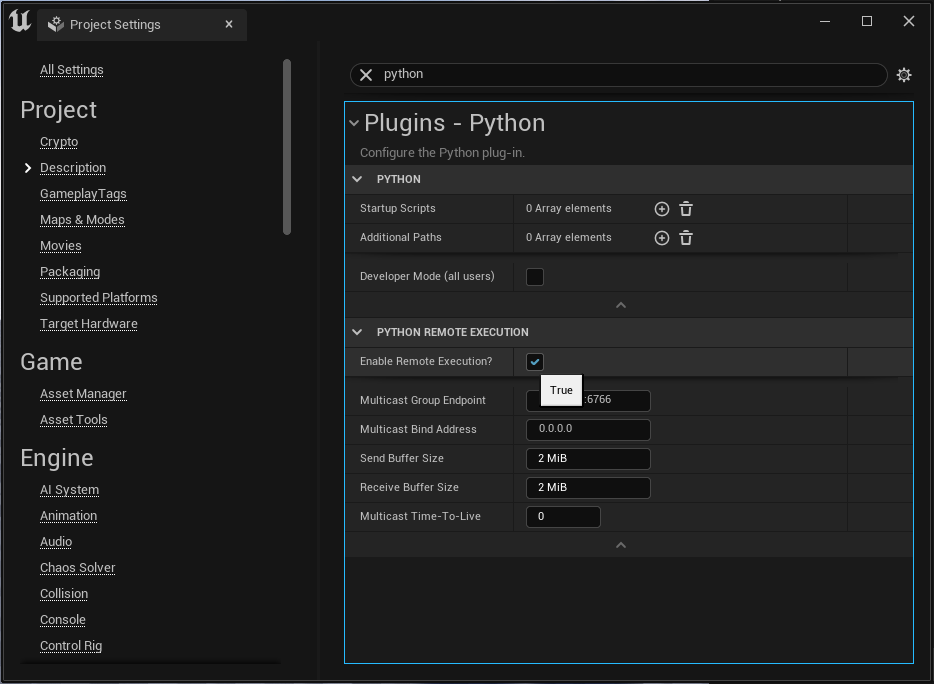
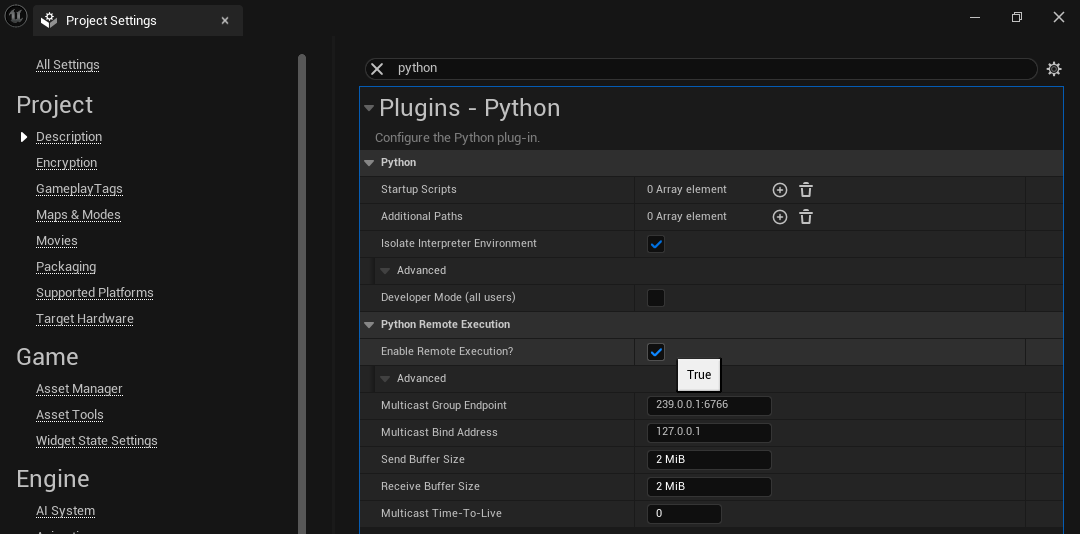
- fixed #669, #638, #637, #631

diff --git a/send2ue/dependencies/unreal.py b/send2ue/dependencies/unreal.py
@@ -333,6 +333,24 @@ class Unreal:
         return None
 
     @staticmethod
+    def get_bone_pose_for_frame(anim_sequence, bone_name, frame, extract_root_motion):
+        """
+        Gets the local transform of the bone at the specified frame in the anim sequence.
+
+
+        :param object anim_sequence: An unreal anim sequence object.
+        :param str bone_name: A bone name.
+        :param float frame: The frame to get the transform at.
+        :param bool extract_root_motion: Whether to include root motion in the returned transform.
+        :returns: A transform.
+        :rtype: unreal.Transform
+        """
+        pose_options = unreal.AnimPoseEvaluationOptions()
+        pose_options.set_editor_property('extract_root_motion', extract_root_motion)
+        pose = unreal.AnimPoseExtensions.get_anim_pose_at_frame(anim_sequence, frame, pose_options)
+        return unreal.AnimPoseExtensions.get_bone_pose(pose, bone_name)
+
+    @staticmethod
     def set_settings(property_group, data_object):
         """
         Sets a group of properties onto an unreal object.
@@ -985,6 +1003,17 @@ class UnrealRemoteCalls:
             lod_count = unreal.get_editor_subsystem(unreal.StaticMeshEditorSubsystem).get_lod_count(asset)
 
         return lod_count
+    @staticmethod
+    def get_asset_type(asset_path):
+        """
+        Gets the asset type of the given asset.
+
+        :param str asset_path: The path to the unreal asset.
+        :return str: The number of lods on the asset.
+        """
+        asset = Unreal.get_asset(asset_path)
+        if asset:
+            return asset.__class__.__name__
 
     @staticmethod
     def asset_exists(asset_path):
@@ -992,7 +1021,7 @@ class UnrealRemoteCalls:
         Checks to see if an asset exist in unreal.
 
         :param str asset_path: The path to the unreal asset.
-        :return bool: Whether or not the asset exists.
+        :return bool: Whether the asset exists.
         """
         return bool(unreal.load_asset(asset_path))
 
@@ -1085,7 +1114,7 @@ class UnrealRemoteCalls:
 
         :param str asset_path: The path to the unreal asset.
         :param str socket_name: The name of the socket to look for.
-        :return bool: Whether or not the asset has the given socket or not.
+        :return bool: Whether the asset has the given socket or not.
         """
         mesh = Unreal.get_asset(asset_path)
         return bool(mesh.find_socket(socket_name))
@@ -1097,7 +1126,7 @@ class UnrealRemoteCalls:
 
         :param str binding_asset_path: The path to the unreal binding asset.
         :param str groom_asset_path: The path to the unreal groom asset.
-        :return bool: Whether or not the binding asset has the given groom.
+        :return bool: Whether the binding asset has the given groom.
         """
         binding_asset = unreal.load_asset(binding_asset_path)
         groom_asset = unreal.load_asset(groom_asset_path)
@@ -1114,7 +1143,7 @@ class UnrealRemoteCalls:
 
         :param str binding_asset_path: The path to the unreal binding asset.
         :param str target_mesh_path: The path to the unreal skeletal mesh asset.
-        :return bool: Whether or not the binding asset has the given skeletal mesh target.
+        :return bool: Whether the binding asset has the given skeletal mesh target.
         """
         binding_asset = unreal.load_asset(binding_asset_path)
         mesh_asset = unreal.load_asset(target_mesh_path)
@@ -1181,7 +1210,7 @@ class UnrealRemoteCalls:
 
         :param str asset_path: The path to the unreal asset.
         :param str socket_name: The name of the socket to look for.
-        :return bool: Whether or not the asset has the given socket and the owner (outer) is properly assigned or not.
+        :return bool: Whether the asset has the given socket and the owner (outer) is properly assigned or not.
         """
         mesh = Unreal.get_asset(asset_path)
         socket = mesh.find_socket(socket_name)
@@ -1196,7 +1225,7 @@ class UnrealRemoteCalls:
         Deletes an asset in unreal.
 
         :param str asset_path: The path to the unreal asset.
-        :return bool: Whether or not the asset was deleted.
+        :return bool: Whether the asset was deleted.
         """
         if unreal.EditorAssetLibrary.does_asset_exist(asset_path):
             unreal.EditorAssetLibrary.delete_asset(asset_path)
@@ -1204,14 +1233,13 @@ class UnrealRemoteCalls:
     @staticmethod
     def delete_directory(directory_path):
         """
-        Deletes an folder and its contents in unreal.
+        Deletes a folder and its contents in unreal.
 
         :param str directory_path: The game path to the unreal project folder.
-        :return bool: Whether or not the directory was deleted.
+        :return bool: Whether the directory was deleted.
         """
-        # API BUG:cant check if exists https://jira.it.epicgames.com/browse/UE-142234
-        # if unreal.EditorAssetLibrary.does_directory_exist(directory_path):
-        unreal.EditorAssetLibrary.delete_directory(directory_path)
+        if unreal.EditorAssetLibrary.does_directory_exist(directory_path):
+            unreal.EditorAssetLibrary.delete_directory(directory_path)
 
     @staticmethod
     def import_asset(file_path, asset_data, property_data):
@@ -1246,7 +1274,7 @@ class UnrealRemoteCalls:
         :param str asset_path: The project path to the asset.
         :param str asset_class: The name of the unreal asset class.
         :param str asset_factory: The name of the unreal factory.
-        :param bool unique_name: Whether or not the check if the name is unique before creating the asset.
+        :param bool unique_name: Whether the check if the name is unique before creating the asset.
         """
         asset_class = getattr(unreal, asset_class)
         factory = getattr(unreal, asset_factory)()
@@ -1472,11 +1500,13 @@ class UnrealRemoteCalls:
         """
         animation = Unreal.get_asset(asset_path)
         path = unreal.AnimationLibrary.find_bone_path_to_root(animation, bone_name)
-        transform = unreal.AnimationLibrary.get_bone_pose_for_frame(animation, bone_name, frame, True)
+        transform = Unreal.get_bone_pose_for_frame(animation, bone_name, frame, True)
         world_rotation = unreal.Rotator()
         world_location = unreal.Transform()
+
+        # this walks the bone hierarchy to get the world transforms
         for bone in path:
-            bone_transform = unreal.AnimationLibrary.get_bone_pose_for_frame(animation, str(bone), frame, True)
+            bone_transform = Unreal.get_bone_pose_for_frame(animation, str(bone), frame, True)
             world_rotation = world_rotation.combine(bone_transform.rotation.rotator())
             world_location = world_location.multiply(bone_transform)
 
@@ -1502,7 +1532,7 @@ class UnrealRemoteCalls:
     @staticmethod
     def get_origin(asset_path):
         """
-        Gets the location of the assets origin.
+        Gets the location of the asset origin.
 
         :param str asset_path: The project path to the asset.
         :return list: A list of bone name all the way to the root bone.

diff --git a/send2ue/dependencies/remote_execution.py b/send2ue/dependencies/remote_execution.py
@@ -1,5 +1,6 @@
 # Copyright Epic Games, Inc. All Rights Reserved.
 
+import os
 import sys as _sys
 import json as _json
 import uuid as _uuid
@@ -23,7 +24,7 @@ _NODE_TIMEOUT_SECONDS = 5                               # Number of seconds to w
 
 DEFAULT_MULTICAST_TTL = 0                               # Multicast TTL (0 is limited to the local host, 1 is limited to the local subnet)
 DEFAULT_MULTICAST_GROUP_ENDPOINT = ('239.0.0.1', 6766)  # The multicast group endpoint tuple that the UDP multicast socket should join (must match the "Multicast Group Endpoint" setting in the Python plugin)
-DEFAULT_MULTICAST_BIND_ADDRESS = '0.0.0.0'              # The adapter address that the UDP multicast socket should bind to, or 0.0.0.0 to bind to all adapters (must match the "Multicast Bind Address" setting in the Python plugin)
+DEFAULT_MULTICAST_BIND_ADDRESS = '127.0.0.1'            # The adapter address that the UDP multicast socket should bind to, or 127.0.0.1 to bind to all adapters (must match the "Multicast Bind Address" setting in the Python plugin)
 DEFAULT_COMMAND_ENDPOINT = ('127.0.0.1', 6776)          # The endpoint tuple for the TCP command connection hosted by this client (that the remote client will connect to)
 DEFAULT_RECEIVE_BUFFER_SIZE = 8192                      # The default receive buffer size
 
@@ -540,7 +541,7 @@ class _RemoteExecutionMessage(object):
         if self.data:
             json_obj['data'] = self.data
         return _json.dumps(json_obj, ensure_ascii=False)
-    
+
     def to_json_bytes(self):
         '''
         Convert this message to its JSON representation as UTF-8 bytes.

diff --git a/tests/utils/addon_packager.py b/tests/utils/addon_packager.py
@@ -13,6 +13,12 @@ except ImportError:
     pass
 
 
+IGNORE_PATTERNS = [
+    "__pycache__",
+    "*.pyc"
+]
+
+
 class AddonPackager:
 
     def __init__(self, addon_name, addon_folder_path, output_folder):
@@ -148,7 +154,11 @@ class AddonPackager:
                 logging.warning(f'Could not delete {versioned_folder_path}!')
 
         # copy the addon module in to the versioned directory with its addon module name as a sub directory
-        shutil.copytree(self.addon_folder_path, os.path.join(versioned_folder_path, self.addon_name))
+        shutil.copytree(
+            self.addon_folder_path,
+            os.path.join(versioned_folder_path, self.addon_name),
+            ignore=shutil.ignore_patterns(*IGNORE_PATTERNS)
+        )
 
         # make a zip archive of the copied folder
         shutil.make_archive(versioned_folder_path, 'zip', versioned_folder_path)

diff --git a/send2ue/core/formatting.py b/send2ue/core/formatting.py
@@ -241,7 +241,17 @@ def update_unreal_skeleton_asset_path(self, context):
     :param object self: This is a reference to the property data object.
     :param object context: The context when the property was called.
     """
-    auto_format_unreal_asset_path('unreal_skeleton_asset_path', self)
+    name = 'unreal_skeleton_asset_path'
+    error_message = auto_format_unreal_asset_path(name, self)
+    value = getattr(self, name)
+    if value and not error_message:
+        asset_type = UnrealRemoteCalls.get_asset_type(value)
+        if asset_type != 'Skeleton':
+            error_message = f'This is a {asset_type} asset. This must be a Skeleton asset.'
+            set_property_error_message(
+                name,
+                error_message
+            )
 
 
 def update_unreal_physics_asset_path(self, context):

diff --git a/send2ue/__init__.py b/send2ue/__init__.py
@@ -13,7 +13,7 @@ from .core import formatting, validations, settings, utilities, export, ingest, 
 bl_info = {
     "name": "Send to Unreal",
     "author": "Epic Games Inc.",
-    "version": (2, 4, 1),
+    "version": (2, 4, 2),
     "blender": (3, 3, 0),
     "location": "Header > Pipeline > Send to Unreal",
     "description": "Sends an asset to the first open Unreal Editor instance on your machine.",

diff --git a/send2ue/ui/addon_preferences.py b/send2ue/ui/addon_preferences.py
@@ -29,7 +29,6 @@ class SendToUnrealPreferences(Send2UeAddonProperties, bpy.types.AddonPreferences
         row.prop(self, 'extensions_repo_path', text='')
         row.operator('send2ue.reload_extensions', text='', icon='UV_SYNC_SELECT')
 
-
 def register():
     """
     Registers the addon preferences when the addon is enabled.

diff --git a/send2ue/core/utilities.py b/send2ue/core/utilities.py
@@ -1087,9 +1087,6 @@ def setup_project(*args):
 
     :param args: This soaks up the extra arguments for the app handler.
     """
-    # set the auth token variable
-    addon_properties = bpy.context.preferences.addons.get(ToolInfo.NAME.value)
-
     # remove the cached files
     remove_temp_folder()
 

diff --git a/send2ue/release_notes.md b/send2ue/release_notes.md
@@ -1,13 +1,19 @@
 ## Minor Changes
-* Fixed rotations on instance assets extension.
-  * [602](https://github.com/EpicGames/BlenderTools/issues/602)
-  * [621](https://github.com/EpicGames/BlenderTools/issues/621)
-* Fixed transformation bug with use object origin option.
-  * [610](https://github.com/EpicGames/BlenderTools/issues/610)
+* Fixed positional argument bug with get_full_import_path.
+  * [631](https://github.com/EpicGames/BlenderTools/issues/631)
+* Removed uniform scale option from UI that has no effect.
+  * [637](https://github.com/EpicGames/BlenderTools/issues/637)
+* Added validation to check skeleton asset type.
+  * [638](https://github.com/EpicGames/BlenderTools/issues/638)
+* Changed the default Multicast Bind Address. It is now `127.0.0.1`.
+  * [669](https://github.com/EpicGames/BlenderTools/issues/669)
+
+## Documentation Changes
+* Updated [Errors](https://epicgames.github.io/BlenderTools/send2ue/trouble-shooting/errors.html) To include Multicast Bind Address setting
 
 ## Special Thanks
-@abhiraaid
+@DKingAlpha
 
 ## Tests Passing On
-* Blender `3.3`, `3.5` (installed from blender.org)
+* Blender `3.3`, `3.6` (installed from blender.org)
 * Unreal `5.1`, `5.2`

diff --git a/docs/send2ue/trouble-shooting/faq.md b/docs/send2ue/trouble-shooting/faq.md
@@ -3,6 +3,8 @@
 ### Could not find an open Unreal Editor instance!
 Toggle `remote execution` off and back on in your project settings.
 
+Make sure the Multicast Bind Address in the unreal project is set to `127.0.0.1`.
+
 Go through the quickstart again. If that doesn't work the issue is most likely due to a
 networking issue. Check your systems firewall for blender and python. Also check the ports `6766` and `9998` on your
 computer to see if they are blocked by another application.
